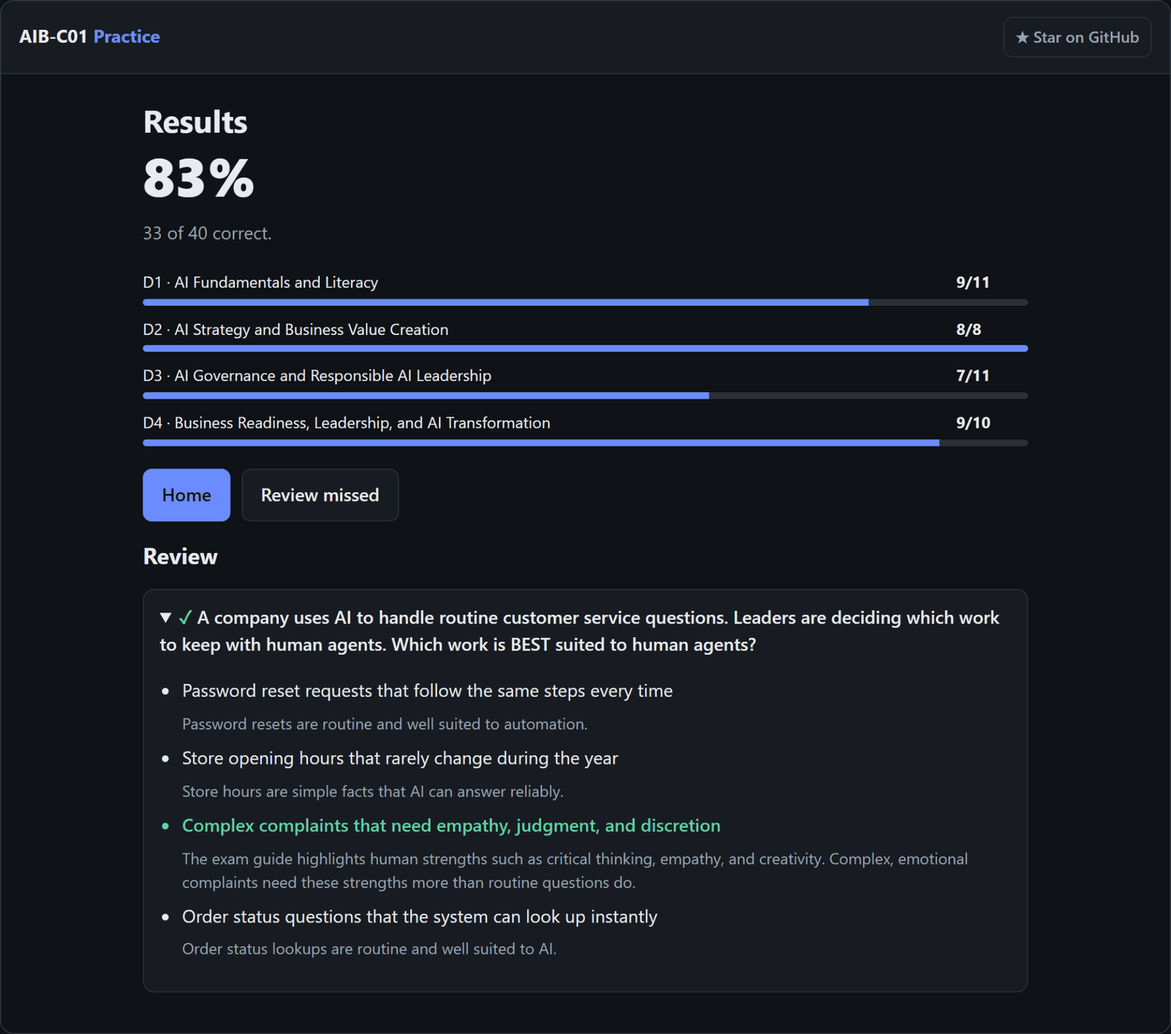
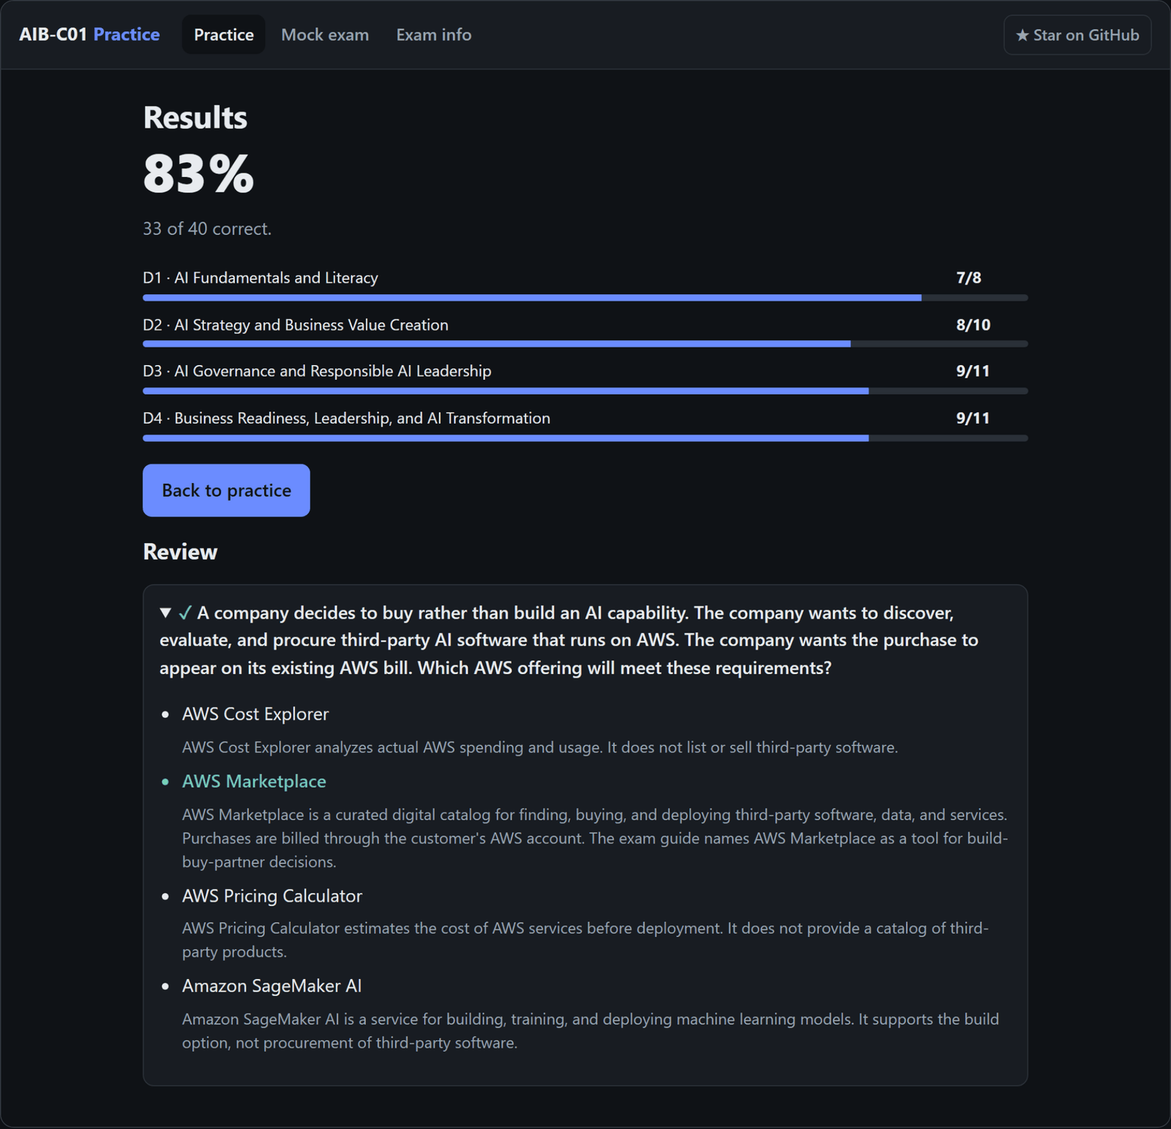
Add nav bar and split home, mock exam and exam info into pages
The home page showed every action and the exam facts at once. Based on
research into how practice-exam and learning sites structure navigation:

- Nav bar with Practice, Mock exam and Exam info (hash routes)
- Practice home: one primary Start mixed practice button, Review
  missed only when there is something to review, slim domain rows
  with a best-score bar, and a link to the mock exam
- Mock exam start page with the rules and per-domain question counts
- Exam info page: exam facts, domain weights, official resources, how
  the site works, and how the questions are written
- During a session the nav hides and the timer and Submit exam or
  End session move into the header; the browser Back button asks
  before leaving
- Phones: three equal tabs, sticky Back and Next, collapsible
  question grid, keyboard hints only on devices with a mouse
- Fix: Review missed on the results page no longer starts an empty
  session when nothing was missed

diff --git a/app.js b/app.js
@@ -7,20 +7,19 @@ const DOMAINS = {
 };
 // Beta format (the standard exam's question count is not yet published).
 const MOCK = { count: 85, minutes: 170 };
+const GUIDE = 'https://docs.aws.amazon.com/aws-certification/latest/ai-business-strategist-01/ai-business-strategist-01.html';
+const REPO = 'https://github.com/zghanw/aws-ai-business-strategist';
 // Verified against the official AIB-C01 exam guide and certification page, 2026-09-28.
 const FACTS = `
-  <strong>Exam at a glance</strong>
-  <ul>
-    <li><b>Beta:</b> 85 questions, 170 minutes, USD 50. Delivery starts 29 Sep 2026. You can sit the beta only once.</li>
+    <li><b>Beta:</b> 85 questions, 170 minutes, USD 50. Delivery started 29 Sep 2026. You can sit the beta only once.</li>
     <li><b>Standard:</b> 130 minutes, USD 100. The question count isn't published yet.</li>
     <li>Question types: multiple choice (1 correct) and multiple response (2+ correct; you must pick all of them to get credit).</li>
     <li>Scaled score 100 to 1,000; <b>700 to pass</b>. Scoring is compensatory, so you don't need to pass each domain. There's no penalty for guessing, so answer every question.</li>
-    <li>AWS services appear only at a strategic level: Amazon Bedrock (pricing tiers, Guardrails, Knowledge Bases), Amazon SageMaker AI, Amazon Quick, AWS CAF, the shared responsibility model, Pricing Calculator, Cost Explorer, Marketplace, Savings Plans, and the Well-Architected Responsible AI Lens.</li>
-  </ul>
-  <a href="https://docs.aws.amazon.com/aws-certification/latest/ai-business-strategist-01/ai-business-strategist-01.html" target="_blank" rel="noopener">Official exam guide ↗</a>`;
+    <li>AWS services appear only at a strategic level: Amazon Bedrock (pricing tiers, Guardrails, Knowledge Bases), Amazon SageMaker AI, Amazon Quick, AWS CAF, the shared responsibility model, Pricing Calculator, Cost Explorer, Marketplace, Savings Plans, and the Well-Architected Responsible AI Lens.</li>`;
 const Q = window.QUESTIONS || [];
 const app = document.getElementById('app');
 const timerEl = document.getElementById('timer');
+const endBtn = document.getElementById('end');
 
 const store = {
   get(k, d) { try { return JSON.parse(localStorage.getItem('aib:' + k)) ?? d; } catch { return d; } },
@@ -31,55 +30,110 @@ const esc = s => String(s).replace(/[&<>"]/g, c => ({ '&': '&amp;', '<': '&lt;',
 const same = (a, b) => a.length === b.length && a.every(x => b.includes(x));
 const pct = (n, d) => (d ? Math.round((100 * n) / d) : 0);
 const inDomain = d => Q.filter(q => q.d == d);
+const missedIds = () => store.get('missed', []).filter(id => Q.some(q => q.id === id));
 // Stems are a scenario, a blank line, then the question, like the official practice set.
 const split = s => { const i = s.lastIndexOf('\n\n'); return i < 0 ? ['', s] : [s.slice(0, i), s.slice(i + 2)]; };
 
 let S = null; // active session
 let tick = null;
 
+// While a session runs, the page hides the nav and puts the timer and end button in the header.
+function session(on) {
+  document.body.classList.toggle('session', on);
+  endBtn.hidden = !on;
+  if (on) endBtn.textContent = S.mode === 'mock' ? 'Submit exam' : 'End session';
+}
+function leave() { stopTimer(); S = null; session(false); }
+
 function home() {
-  stopTimer();
-  S = null;
-  const missed = store.get('missed', []).filter(id => Q.some(q => q.id === id));
-  const best = store.get('best', {});
+  leave();
+  const missed = missedIds().length, best = store.get('best', {});
   app.innerHTML = `
-    <h1>AWS Certified AI Business Strategist</h1>
-    <p class="muted">Exam-style scenario questions for AIB-C01, grouped by the four exam domains. Every option comes with a rationale. Progress is saved in this browser.</p>
-    <div class="grid">${Object.entries(DOMAINS).map(([d, m]) => `
-      <button class="card" data-go="domain" data-d="${d}">
-        <span class="tag">Domain ${d} · ${m.weight}%</span>
-        <strong>${m.name}</strong>
-        <span class="muted">${inDomain(d).length} questions${best[d] != null ? ` · best ${best[d]}%` : ''}</span>
+    <h1>AIB-C01 practice questions</h1>
+    <p class="muted">AWS Certified AI Business Strategist. ${Q.length} original scenario questions with a rationale for every option. Free, no sign-up, and your progress stays in this browser.</p>
+    <div class="actions">
+      <button class="btn primary" data-go="all">Start mixed practice</button>
+      ${missed ? `<button class="btn" data-go="missed">Review missed (${missed})</button>` : ''}
+    </div>
+    <p class="strip">Beta exam: 85 questions · 170 min · 700/1000 to pass · <a href="#/info">Exam info</a></p>
+    <h2 class="sub">Practice by domain</h2>
+    <div class="domains">${Object.entries(DOMAINS).map(([d, m]) => `
+      <button class="drow" data-go="domain" data-d="${d}">
+        <span><span class="tag">D${d} · ${m.weight}%</span> ${m.name}</span>
+        <span class="muted">${best[d] != null ? `best ${best[d]}%` : `${inDomain(d).length} questions`}</span>
+        ${best[d] != null ? `<span class="meter"><i style="width:${best[d]}%"></i></span>` : ''}
       </button>`).join('')}
     </div>
-    <div class="actions">
-      <button class="btn primary" data-go="mock">Mock exam (beta format) · ${Math.min(MOCK.count, Q.length)} Q · ${MOCK.minutes} min</button>
-      <button class="btn" data-go="all">Practice all (${Q.length}, shuffled)</button>
-      <button class="btn" data-go="missed" ${missed.length ? '' : 'disabled'}>Review missed (${missed.length})</button>
-    </div>
-    <div class="facts">${FACTS}</div>
-    <p class="muted" style="font-size:14px">Keys: <kbd>1</kbd> to <kbd>5</kbd> or <kbd>A</kbd> to <kbd>E</kbd> select · <kbd>Enter</kbd> check / next.</p>`;
+    <a class="teaser" href="#/mock">Timed mock exam · ${MOCK.count} questions · ${MOCK.minutes} minutes · scored by domain <span>Open the mock exam →</span></a>`;
+}
+
+function lobby() {
+  leave();
+  const counts = mockCounts(Math.min(MOCK.count, Q.length));
+  app.innerHTML = `
+    <h1>Mock exam (beta format)</h1>
+    <ul class="rules">
+      <li>${MOCK.count} questions in ${MOCK.minutes} minutes, mixed by the official domain weights.</li>
+      <li>No answer feedback until you submit.</li>
+      <li>Flag questions and jump between them with the question grid.</li>
+      <li>Unanswered questions count as wrong.</li>
+      <li>The timer keeps running, and leaving the page ends the attempt.</li>
+    </ul>
+    <div class="rows">${Object.entries(DOMAINS).map(([d, m], i) => `<div class="row"><span>D${d} · ${m.name}</span><strong>${counts[i]}</strong></div>`).join('')}</div>
+    <div class="actions"><button class="btn primary" data-go="mock">Start mock exam</button></div>
+    <p class="muted small">The format follows the beta described in the <a href="${GUIDE}" target="_blank" rel="noopener">official exam guide</a>.</p>`;
+}
+
+function info() {
+  leave();
+  app.innerHTML = `
+    <h1>Exam info</h1>
+    <h2 class="sub">Exam at a glance</h2>
+    <ul class="facts">${FACTS}</ul>
+    <h2 class="sub">Domains and weights</h2>
+    <div class="rows">${Object.entries(DOMAINS).map(([d, m]) => `<div class="row"><span>D${d} · ${m.name}</span><strong>${m.weight}%</strong></div>`).join('')}</div>
+    <h2 class="sub">Official resources</h2>
+    <ul>
+      <li><a href="${GUIDE}" target="_blank" rel="noopener">AIB-C01 exam guide</a></li>
+      <li><a href="https://aws.amazon.com/certification/certified-ai-business-strategist/" target="_blank" rel="noopener">AWS Certified AI Business Strategist certification page</a></li>
+      <li><a href="https://skillbuilder.aws/learning-plan/B8J6KKJ45C/exam-prep-plan--aws-certified-ai-business-strategist-aibc01--english/KQ8WMK8CTE" target="_blank" rel="noopener">Exam prep plan on AWS Skill Builder</a>, which includes the free 20-question official practice set (sign-in required)</li>
+    </ul>
+    <h2 class="sub">How this site works</h2>
+    <ul>
+      <li><b>Practice:</b> pick a domain or start mixed practice. After each answer, every option shows why it's right or wrong.</li>
+      <li><b>Mock exam:</b> ${MOCK.count} questions in ${MOCK.minutes} minutes, weighted like the real exam, scored only when you submit.</li>
+      <li><b>Review missed:</b> questions you get wrong come back until you answer them correctly.</li>
+      <li>Your progress is stored only in this browser. Clearing site data resets it.</li>
+      <li>Keyboard: <kbd>1</kbd> to <kbd>5</kbd> or <kbd>A</kbd> to <kbd>E</kbd> to select, <kbd>Enter</kbd> to check or go to the next question.</li>
+    </ul>
+    <h2 class="sub">How the questions are written</h2>
+    <p>Every question is original and written against the public exam guide. None come from the real exam, paid courses, or dumps. The questions were drafted with AI help, then checked one by one against the exam guide and AWS documentation. The whole question bank is open source on <a href="${REPO}" target="_blank" rel="noopener">GitHub</a>.</p>
+    <p>Think a question is wrong? <a href="${REPO}/issues/new/choose" target="_blank" rel="noopener">Report it</a> with the question ID shown above each question.</p>`;
 }
 
 // Largest-remainder split so the mock mirrors domain weights exactly.
-function mockPool(n) {
-  const ds = Object.keys(DOMAINS);
-  const raw = ds.map(d => (n * DOMAINS[d].weight) / 100);
+function mockCounts(n) {
+  const raw = Object.values(DOMAINS).map(m => (n * m.weight) / 100);
   const cnt = raw.map(Math.floor);
-  ds.map((_, i) => i).sort((a, b) => (raw[b] % 1) - (raw[a] % 1)).slice(0, n - cnt.reduce((s, c) => s + c, 0)).forEach(i => cnt[i]++);
-  return ds.flatMap((d, i) => shuffle(inDomain(d)).slice(0, cnt[i]));
+  raw.map((_, i) => i).sort((a, b) => (raw[b] % 1) - (raw[a] % 1)).slice(0, n - cnt.reduce((s, c) => s + c, 0)).forEach(i => cnt[i]++);
+  return cnt;
 }
+const mockPool = n => { const cnt = mockCounts(n); return Object.keys(DOMAINS).flatMap((d, i) => shuffle(inDomain(d)).slice(0, cnt[i])); };
 
 function start(mode, d) {
-  const missed = new Set(store.get('missed', []));
+  const missed = new Set(missedIds());
   const pool = mode === 'domain' ? inDomain(d)
     : mode === 'missed' ? Q.filter(q => missed.has(q.id))
     : mode === 'mock' ? mockPool(Math.min(MOCK.count, Q.length))
     : Q;
+  if (!pool.length) return go('#/');
   S = { mode, d, view: 'quiz', i: 0,
     qs: shuffle(pool).map(q => ({ q, order: shuffle(q.o.map((_, i) => i)), pick: [], done: false, flag: false })) };
+  history.pushState(null, '', '#/session'); // so the browser Back button asks before leaving
+  session(true);
   if (mode === 'mock') startTimer(MOCK.minutes * 60);
   show();
+  scrollTo(0, 0);
 }
 
 function show() {
@@ -90,6 +144,7 @@ function show() {
     ? `<button class="btn primary" data-act="check" ${it.pick.length === q.a.length ? '' : 'disabled'}>Check</button>`
     : last ? `<button class="btn primary" data-act="finish">Finish</button>`
     : `<button class="btn primary" data-act="next">Next</button>`;
+  const answered = S.qs.filter(x => x.pick.length).length, flagged = S.qs.filter(x => x.flag).length;
   app.innerHTML = `
     <div class="bar">
       <strong>${S.i + 1} / ${S.qs.length}</strong>
@@ -109,9 +164,10 @@ function show() {
     <div class="nav">
       <button class="btn" data-act="prev" ${S.i ? '' : 'disabled'}>Back</button>
       ${main}
-      <button class="btn" data-act="finish" style="margin-left:auto">${mock ? 'Submit exam' : 'End & see results'}</button>
     </div>
-    ${mock ? `<div class="palette">${S.qs.map((x, i) => `<button data-act="jump" data-i="${i}" class="${[x.pick.length && 'ans', x.flag && 'flag', i === S.i && 'cur'].filter(Boolean).join(' ')}">${i + 1}</button>`).join('')}</div>` : ''}`;
+    <p class="keys muted">Keys: <kbd>1</kbd> to <kbd>5</kbd> or <kbd>A</kbd> to <kbd>E</kbd> select · <kbd>Enter</kbd> check / next</p>
+    ${mock ? `<details class="pal" ${innerWidth > 520 ? 'open' : ''}><summary>All questions (answered ${answered}/${S.qs.length}, flagged ${flagged})</summary>
+      <div class="palette">${S.qs.map((x, i) => `<button data-act="jump" data-i="${i}" class="${[x.pick.length && 'ans', x.flag && 'flag', i === S.i && 'cur'].filter(Boolean).join(' ')}">${i + 1}</button>`).join('')}</div></details>` : ''}`;
 }
 
 function pick(oi) {
@@ -150,9 +206,10 @@ function finish() {
 function results() {
   stopTimer();
   S.view = 'results';
+  session(false);
   const graded = S.mode === 'mock' ? S.qs : S.qs.filter(x => x.done);
   const ok = x => same(x.pick, x.q.a);
-  const right = graded.filter(ok).length, score = pct(right, graded.length);
+  const right = graded.filter(ok).length, score = pct(right, graded.length), missed = missedIds().length;
   if (S.mode === 'domain' && graded.length) {
     const best = store.get('best', {});
     best[S.d] = Math.max(best[S.d] ?? 0, score);
@@ -167,14 +224,17 @@ function results() {
       <summary>${ok(x) ? '<span class="yes">✓</span>' : '<span class="no">✗</span>'} ${esc(x.q.q.replace(/\n\n/g, ' '))}</summary>
       <ul>${x.order.map(oi => `<li class="${x.q.a.includes(oi) ? 'right' : x.pick.includes(oi) ? 'wrong' : ''}">${esc(x.q.o[oi])}<span class="why">${esc(x.q.r[oi])}</span></li>`).join('')}</ul>
     </details>`).join('');
+  const actions = missed
+    ? `<button class="btn primary" data-go="missed">Review missed (${missed})</button><button class="btn" data-go="home">Back to practice</button>`
+    : `<button class="btn primary" data-go="home">Back to practice</button>`;
   app.innerHTML = `
     <h1>Results</h1>
     ${graded.length ? `
       <div class="score">${score}%</div>
       <p class="muted">${right} of ${graded.length} correct.${S.mode === 'mock' ? ' The real exam reports a scaled score (100 to 1,000, pass 700) that is not a simple percentage, so treat this raw % as a rough guide and aim for 80%+.' : ''}</p>
       <div class="rows">${rows}</div>
-      <div class="actions"><button class="btn primary" data-go="home">Home</button><button class="btn" data-go="missed">Review missed</button></div>
-      <h2>Review</h2>${review}` : '<p class="muted">No questions answered.</p><div class="actions"><button class="btn primary" data-go="home">Home</button></div>'}`;
+      <div class="actions">${actions}</div>
+      <h2>Review</h2>${review}` : `<p class="muted">No questions answered.</p><div class="actions">${actions}</div>`}`;
   scrollTo(0, 0);
 }
 
@@ -191,9 +251,24 @@ function startTimer(sec) {
 }
 function stopTimer() { clearInterval(tick); timerEl.textContent = ''; }
 
-app.addEventListener('click', e => {
-  const go = e.target.closest('[data-go]');
-  if (go) return go.dataset.go === 'home' ? home() : start(go.dataset.go, go.dataset.d);
+// Hash routes need no server config on GitHub Pages. #/session (or anything unknown) falls back to home.
+const VIEWS = { '#/mock': lobby, '#/info': info };
+function route() {
+  const h = VIEWS[location.hash] ? location.hash : '#/';
+  (VIEWS[h] || home)();
+  for (const a of document.querySelectorAll('header nav a')) a.getAttribute('href') === h ? a.setAttribute('aria-current', 'page') : a.removeAttribute('aria-current');
+  scrollTo(0, 0);
+}
+const go = h => (location.hash === h ? route() : (location.hash = h));
+
+addEventListener('hashchange', () => {
+  if (S && S.view === 'quiz' && !confirm('Leave this session? Progress in it will be lost.')) return history.pushState(null, '', '#/session');
+  route();
+});
+
+document.addEventListener('click', e => {
+  const g = e.target.closest('[data-go]');
+  if (g) return g.dataset.go === 'home' ? go('#/') : start(g.dataset.go, g.dataset.d);
   const act = e.target.closest('[data-act]');
   if (!act || !S) return;
   const a = act.dataset.act;
@@ -202,12 +277,6 @@ app.addEventListener('click', e => {
   else if (a === 'next' || a === 'prev' || a === 'jump') { S.i = a === 'jump' ? +act.dataset.i : S.i + (a === 'next' ? 1 : -1); show(); scrollTo(0, 0); }
   else if (a === 'flag') { S.qs[S.i].flag = !S.qs[S.i].flag; show(); }
   else if (a === 'finish') finish();
-});
-
-document.getElementById('home-link').addEventListener('click', e => {
-  e.preventDefault();
-  if (S && S.view === 'quiz' && !confirm('Leave this session? Progress in it will be lost.')) return;
-  home();
 });
 
 document.addEventListener('keydown', e => {
@@ -222,4 +291,4 @@ document.addEventListener('keydown', e => {
   }
 });
 
-home();
+route();

diff --git a/style.css b/style.css
@@ -12,22 +12,43 @@
 }
 * { box-sizing: border-box; }
 body { margin: 0; background: var(--bg); color: var(--ink); font: 16px/1.55 system-ui, -apple-system, "Segoe UI", Roboto, sans-serif; }
-header { display: flex; justify-content: space-between; align-items: center; padding: 14px 16px; border-bottom: 1px solid var(--line); background: var(--card); position: sticky; top: 0; z-index: 2; }
+header { display: flex; align-items: center; gap: 8px 12px; padding: 12px 16px; border-bottom: 1px solid var(--line); background: var(--card); position: sticky; top: 0; z-index: 2; }
 header a { color: var(--ink); text-decoration: none; font-weight: 700; }
-header a span { color: var(--accent); }
-#timer { font-variant-numeric: tabular-nums; font-weight: 600; margin-left: auto; margin-right: 16px; }
+.brand { margin-right: 8px; }
+.brand span { color: var(--accent); }
+header nav { display: flex; gap: 4px; }
+header nav a { padding: 6px 10px; border-radius: 8px; color: var(--muted); font-weight: 600; font-size: 15px; }
+header nav a:hover { color: var(--ink); }
+header nav a[aria-current="page"] { color: var(--ink); background: var(--bg); }
+body.session header nav, body.session header .gh { display: none; }
+#timer { font-variant-numeric: tabular-nums; font-weight: 600; margin-left: auto; }
+#end { padding: 6px 12px; }
 header a.gh { font-size: 14px; font-weight: 600; color: var(--muted); border: 1px solid var(--line); border-radius: 8px; padding: 6px 10px; }
 header a.gh:hover { color: var(--ink); border-color: var(--accent); }
 #timer.low { color: var(--bad); }
 main { max-width: 820px; margin: 0 auto; padding: 24px 16px 48px; }
-footer { text-align: center; color: var(--muted); font-size: 13px; padding: 0 16px 32px; }
+footer { text-align: center; color: var(--muted); font-size: 13px; line-height: 1.8; padding: 0 16px 32px; }
+main a, footer a { color: var(--accent); }
 h1 { font-size: 28px; line-height: 1.2; margin: 0 0 8px; }
 h2 { font-size: 20px; line-height: 1.4; margin: 16px 0; }
 .muted { color: var(--muted); }
-.grid { display: grid; grid-template-columns: repeat(2, 1fr); gap: 12px; margin: 20px 0; }
-.card { display: flex; flex-direction: column; gap: 4px; text-align: left; padding: 16px; border: 1px solid var(--line); border-radius: 10px; background: var(--card); color: var(--ink); font: inherit; cursor: pointer; }
-.card:hover { border-color: var(--accent); }
-.card strong { font-size: 17px; }
+h2.sub { font-size: 16px; margin: 28px 0 10px; }
+.small { font-size: 14px; }
+.strip { font-size: 14px; color: var(--muted); margin: 0; }
+.domains { display: flex; flex-direction: column; border: 1px solid var(--line); border-radius: 10px; background: var(--card); overflow: hidden; }
+.drow { display: grid; grid-template-columns: 1fr auto; gap: 6px 12px; align-items: center; min-height: 48px; padding: 12px 16px; border: 0; border-top: 1px solid var(--line); background: none; color: var(--ink); font: inherit; text-align: left; cursor: pointer; }
+.drow:first-child { border-top: 0; }
+.drow:hover { background: var(--bg); }
+.drow .muted { font-size: 14px; }
+.drow .meter { grid-column: 1 / -1; height: 4px; background: var(--line); border-radius: 2px; overflow: hidden; }
+.drow .meter i { display: block; height: 100%; background: var(--accent); }
+main a.teaser { display: block; margin: 16px 0; padding: 14px 16px; border: 1px solid var(--line); border-radius: 10px; background: var(--card); color: var(--muted); text-decoration: none; font-size: 15px; }
+.teaser span { color: var(--accent); font-weight: 600; white-space: nowrap; }
+.teaser:hover { border-color: var(--accent); }
+.rules { padding-left: 20px; }
+.rules li { margin: 4px 0; }
+.keys { display: none; font-size: 14px; }
+@media (hover: hover) and (pointer: fine) { .keys { display: block; } }
 .tag { font-size: 12px; font-weight: 600; text-transform: uppercase; letter-spacing: .04em; color: var(--accent); }
 .actions, .nav { display: flex; flex-wrap: wrap; gap: 10px; margin: 16px 0; }
 .btn { padding: 10px 16px; border-radius: 8px; border: 1px solid var(--line); background: var(--card); color: var(--ink); font: inherit; font-weight: 600; cursor: pointer; }
@@ -60,7 +81,7 @@ h2 { font-size: 20px; line-height: 1.4; margin: 16px 0; }
 .explain.ok strong { color: var(--ok); }
 .explain.bad strong { color: var(--bad); }
 .explain p { margin: 6px 0 0; }
-.palette { display: flex; flex-wrap: wrap; gap: 6px; margin-top: 20px; }
+.palette { display: flex; flex-wrap: wrap; gap: 6px; margin-top: 12px; }
 .palette button { width: 36px; height: 32px; border-radius: 6px; border: 1px solid var(--line); background: var(--card); color: var(--ink); font: inherit; font-size: 13px; cursor: pointer; }
 .palette .ans { background: var(--line); }
 .palette .flag { border-color: var(--flag); color: var(--flag); font-weight: 700; }
@@ -79,8 +100,16 @@ details li.right { color: var(--ok); font-weight: 600; }
 details li.wrong { color: var(--bad); }
 details li { margin: 8px 0; }
 details li .why { font-weight: 400; color: var(--muted); }
-.facts { border: 1px solid var(--line); border-radius: 10px; background: var(--card); padding: 14px 16px; font-size: 14px; }
-.facts ul { margin: 6px 0 10px; padding-left: 20px; }
-.facts a { color: var(--accent); font-weight: 600; }
+.facts { border: 1px solid var(--line); border-radius: 10px; background: var(--card); margin: 0; padding: 12px 16px 12px 34px; font-size: 15px; }
+.facts li { margin: 4px 0; }
 kbd { font: 12px ui-monospace, monospace; border: 1px solid var(--line); border-radius: 4px; padding: 1px 5px; }
-@media (max-width: 520px) { .grid { grid-template-columns: 1fr; } h1 { font-size: 24px; } h2 { font-size: 18px; } .score { font-size: 40px; } }
+@media (max-width: 520px) {
+  h1 { font-size: 24px; } h2 { font-size: 18px; } .score { font-size: 40px; }
+  header { flex-wrap: wrap; padding: 10px 12px; }
+  body:not(.session) header { position: static; }
+  header nav { order: 3; width: 100%; }
+  header nav a { flex: 1; min-height: 44px; display: grid; place-items: center; padding: 0; }
+  .gh span { display: none; }
+  body.session .nav { position: sticky; bottom: 0; z-index: 1; margin: 16px -16px 0; padding: 10px 16px calc(10px + env(safe-area-inset-bottom)); background: var(--bg); border-top: 1px solid var(--line); }
+  body.session .nav .btn { flex: 1; }
+}

diff --git a/index.html b/index.html
@@ -4,10 +4,10 @@
 <meta charset="utf-8">
 <meta name="viewport" content="width=device-width, initial-scale=1">
 <title>AIB-C01 Practice Questions | AWS Certified AI Business Strategist</title>
-<meta name="description" content="Free practice questions for the AWS Certified AI Business Strategist (AIB-C01) exam: 340 scenario questions, 85 for each of the 4 domains, explanations for every answer, and a timed mock exam.">
+<meta name="description" content="Free practice questions for the AWS Certified AI Business Strategist (AIB-C01) exam: 340 scenario questions, 85 for each of the 4 domains, a rationale for every option, and a timed mock exam.">
 <meta property="og:type" content="website">
 <meta property="og:title" content="AIB-C01 Practice: AWS Certified AI Business Strategist">
-<meta property="og:description" content="Free, open-source practice questions with an explanation for every answer and a timed 85-question mock exam.">
+<meta property="og:description" content="Free, open-source practice questions with a rationale for every option and a timed 85-question mock exam.">
 <meta property="og:url" content="https://zghanw.github.io/aws-ai-business-strategist/">
 <meta property="og:image" content="https://zghanw.github.io/aws-ai-business-strategist/docs/social-preview.png">
 <meta name="twitter:card" content="summary_large_image">
@@ -15,12 +15,14 @@
 </head>
 <body>
 <header>
-  <a href="#" id="home-link">AIB-C01 <span>Practice</span></a>
+  <a href="#/" class="brand">AIB-C01 <span>Practice</span></a>
+  <nav aria-label="Main"><a href="#/">Practice</a><a href="#/mock">Mock exam</a><a href="#/info">Exam info</a></nav>
   <span id="timer" aria-live="off"></span>
-  <a class="gh" href="https://github.com/zghanw/aws-ai-business-strategist" target="_blank" rel="noopener">★ Star on GitHub</a>
+  <button class="btn" id="end" data-act="finish" hidden></button>
+  <a class="gh" href="https://github.com/zghanw/aws-ai-business-strategist" target="_blank" rel="noopener" aria-label="Star on GitHub">★<span> Star on GitHub</span></a>
 </header>
 <main id="app"></main>
-<footer>Unofficial study aid. Not affiliated with or endorsed by AWS. Questions are original, written against the public exam guide.</footer>
+<footer>Unofficial study aid. Not affiliated with or endorsed by AWS. Questions are original, written against the public exam guide.<br><a href="#/info">Exam info</a> · <a href="https://github.com/zghanw/aws-ai-business-strategist" target="_blank" rel="noopener">GitHub</a></footer>
 <script src="data/d1.js"></script>
 <script src="data/d2.js"></script>
 <script src="data/d3.js"></script>
